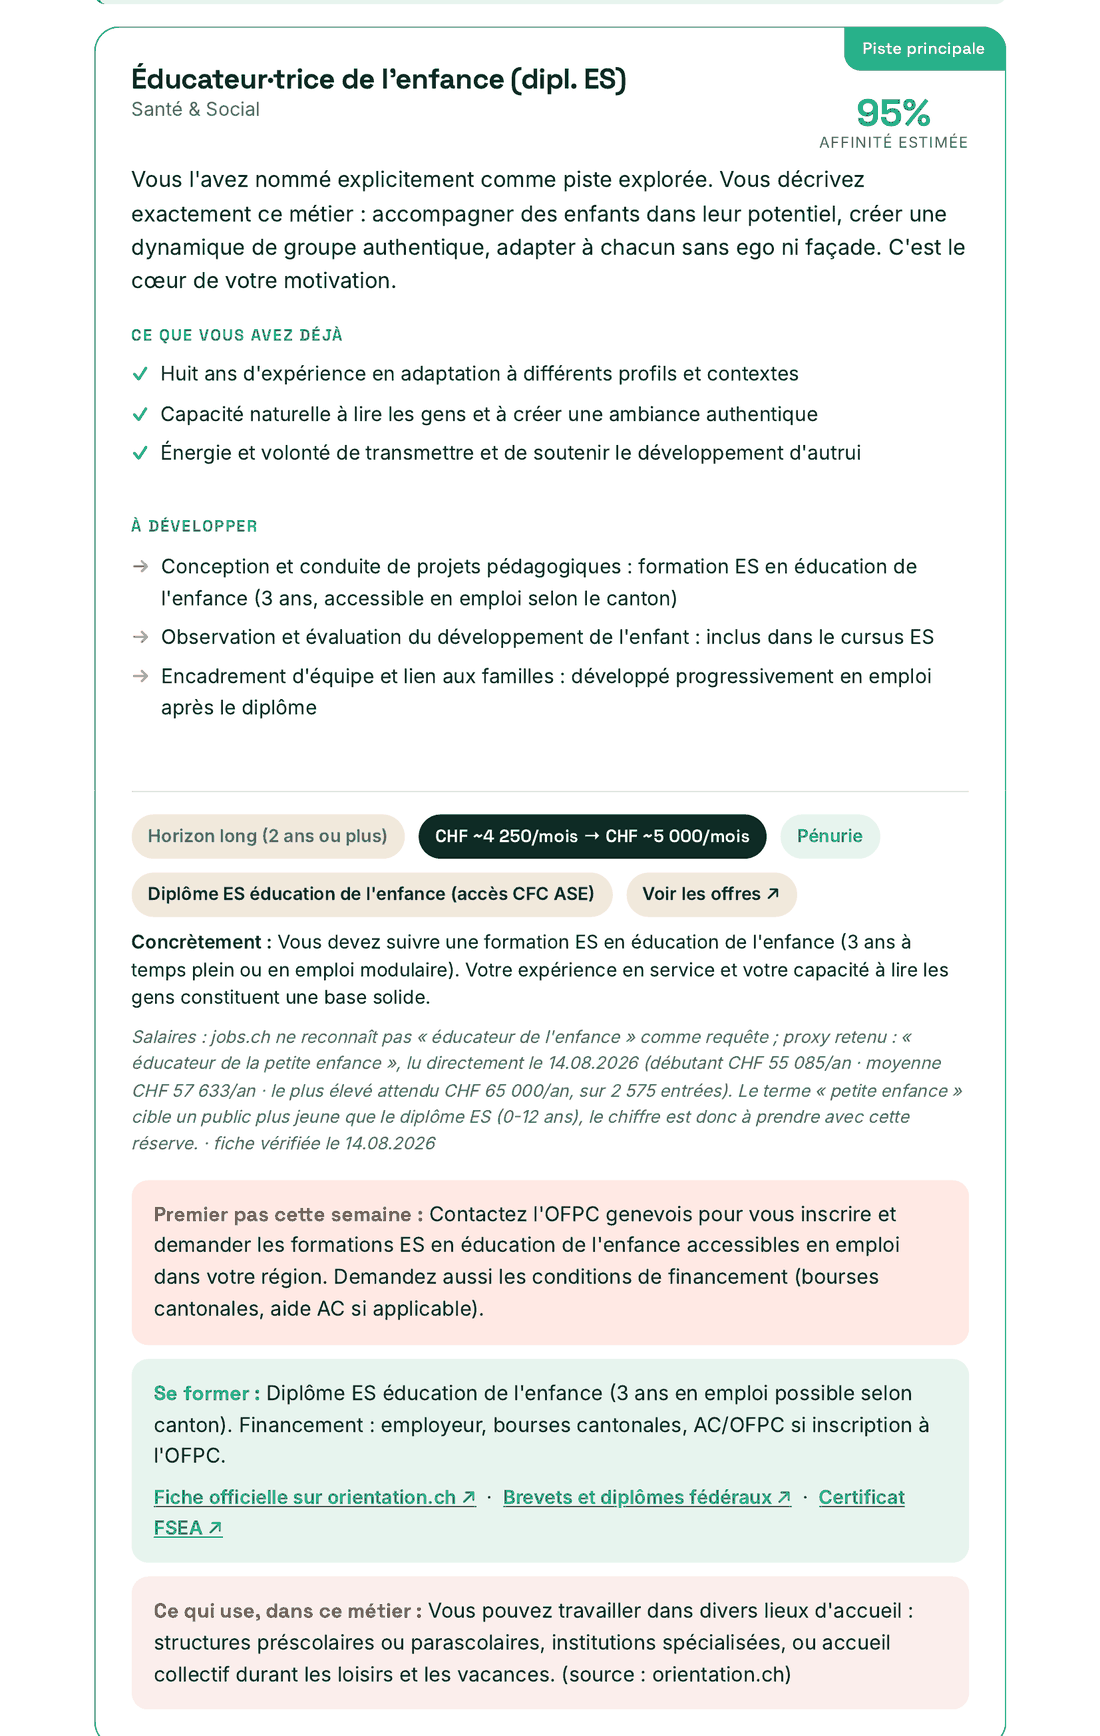
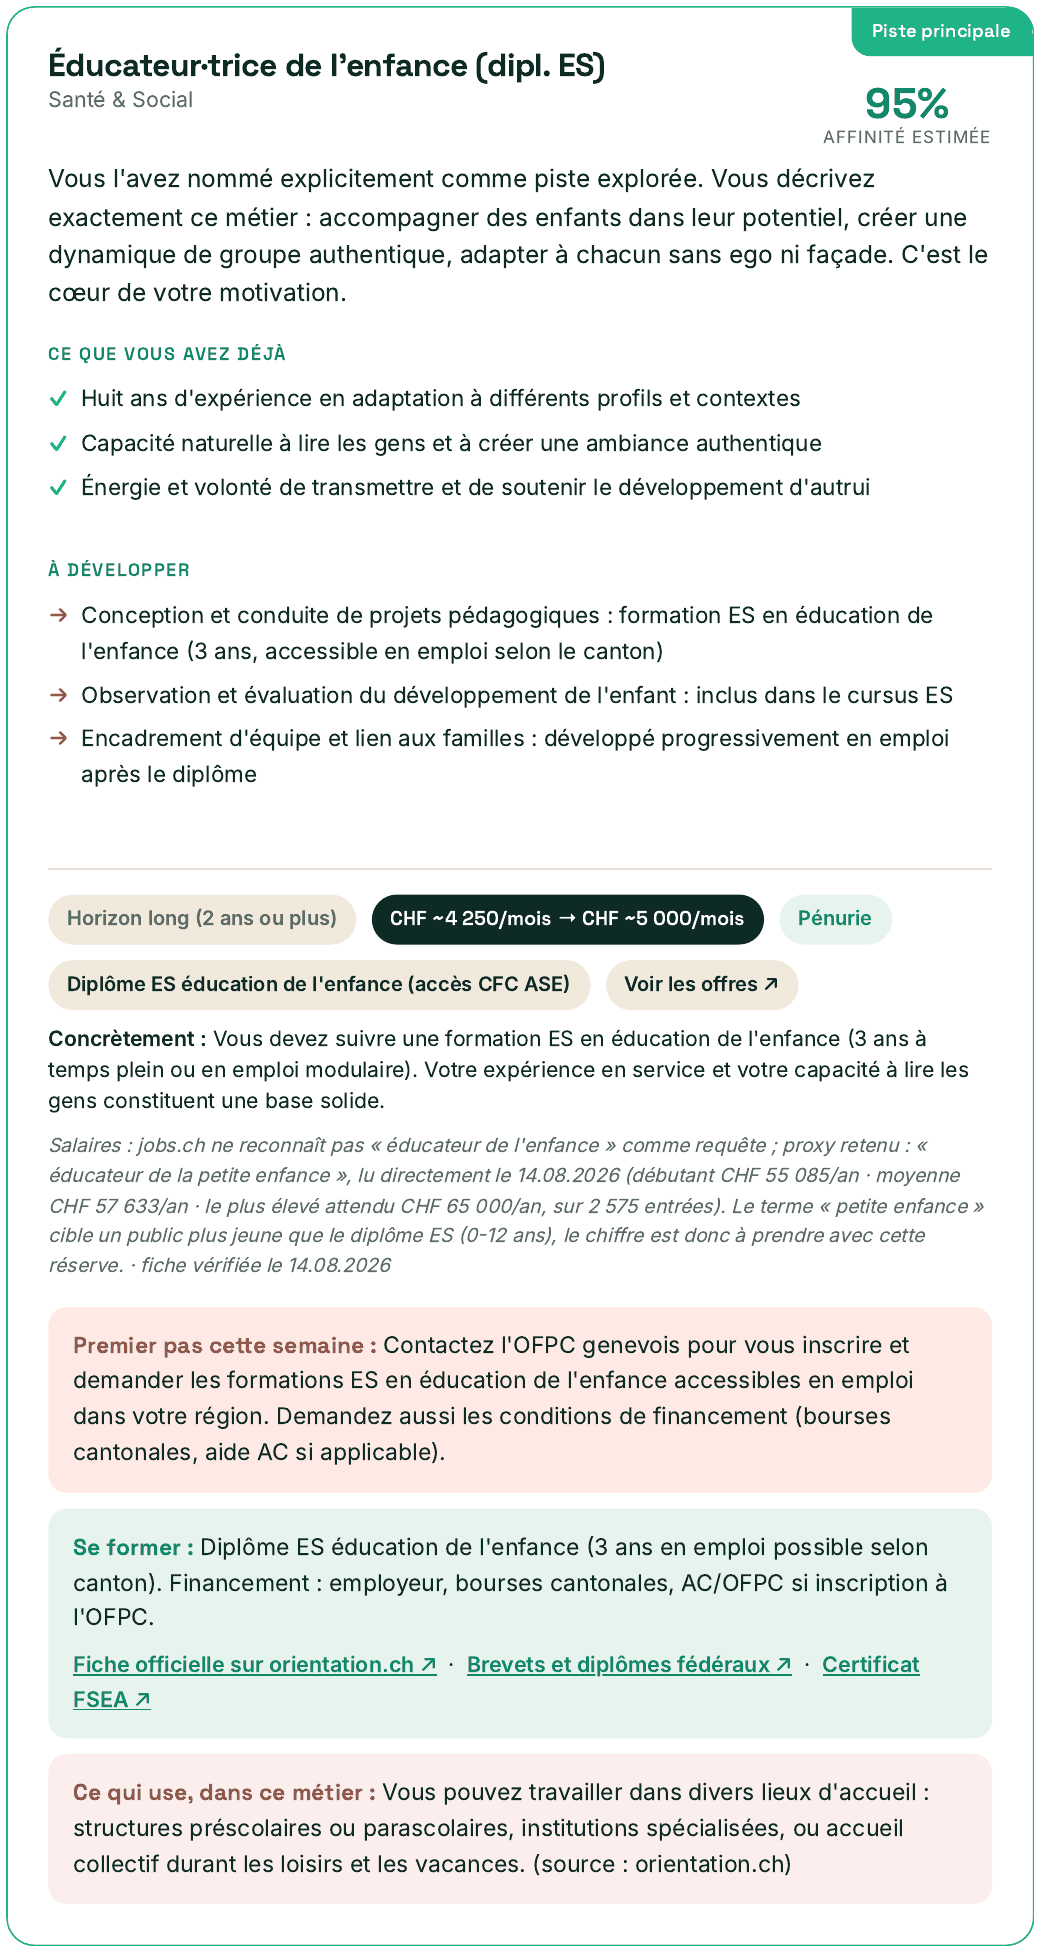
maj: site Cynth.IA

Changed region(s): [[0.0308, 0.0, 1.0, 0.9954], [0.0, 0.9954, 0.9846, 1.0]]

diff --git a/cynthia_v2.html b/cynthia_v2.html
@@ -2361,17 +2361,48 @@ textarea.chat-input{
          prénom, ni référence, ni canton, ni permis G/frontalier — ces
          mentions ne vivent que sur la couverture (page 1, jamais utilisée)
          et dans la section « Cette semaine » (page 12, jamais utilisée).
-         Fichiers : rapport_extrait_personnalite.png, rapport_extrait_metier.png
+         Fichiers (v1) : rapport_extrait_personnalite.png, rapport_extrait_metier.png
          (racine de refonte_deepseek, copiés par push_nouvelle_interface.command).
          Compressés par quantification de palette (48 couleurs, PIL) : le
          document est presque entièrement à plat, aucune perte visible sur
-         le texte, 700 Ko → 160 Ko et 316 Ko → 79 Ko. -->
+         le texte, 700 Ko → 160 Ko et 316 Ko → 79 Ko.
+
+         ── REMPLACÉ une 4e fois le même jour, retour de Faouzi après avoir vu
+         le rendu réel sur mobile ──
+         Deux retours distincts sur ce qu'il a vu de ses propres yeux :
+         (1) l'image Big Five (62%, 58%…) pouvait se lire comme une note basse
+         et « dénigrer » la personne dès le premier coup d'œil, alors que ce
+         sont de simples repères, pas un classement — retirée, remplacée par
+         l'encadré « VOTRE FREIN, ET CE QU'IL RÉVÈLE VRAIMENT » (page 5 du même
+         PDF réel) : aucun chiffre, un recadrage émotionnellement fort qui
+         retourne une insécurité perçue en ressource (« L'âge n'est pas un
+         frein, c'est une ressource. Le manque de confiance, c'est une
+         sensation, pas une réalité. »). Choix laissé à mon appréciation par
+         Faouzi (« tu trouves le moyen le plus impactant ») : ce passage a été
+         préféré à d'autres candidats réels du même rapport (pitch de
+         reconversion, puces CV) parce qu'il ne montre aucun score, qu'il est
+         visuellement distinct (liseré corail, rompt avec le vert dominant) et
+         qu'il démontre directement ce que fait Cynthia de mieux : confronter
+         honnêtement puis recadrer, pas juste lister des compétences.
+         (2) la fiche métier montrait un fragment parasite en haut de l'image
+         (« on voit que c'est coupé ») : le recadrage précédent partait
+         quelques pixels trop haut et laissait passer un éclat du coin
+         inférieur de l'encadré vert au-dessus (« Sur 5 pistes… »). Redécoupé
+         au pixel près (bordure détectée par script, pas à l'œil) : le
+         nouveau fichier commence exactement à la bordure émeraude du haut de
+         la carte « Piste principale » et se termine exactement à la bordure
+         du bas, après l'encadré « Ce qui use ». Même contenu, coupe propre.
+         Fichiers (v2, actuels) : rapport_extrait_frein.png (415×1071 crop
+         page 5), rapport_extrait_metier.png (redécoupé pages 7-8, écrase
+         l'ancien fichier du même nom). rapport_extrait_personnalite.png
+         reste sur disque mais n'est plus référencé nulle part — signalé à
+         Faouzi, pas supprimé sans son accord (fichier du dossier de travail). -->
     <div class="lp-rex lp-rv">
       <div class="lp-rex-tag">Un vrai rapport généré par Cynthia — prénom retiré pour préserver son anonymat</div>
       <div class="lp-rex-imgs">
         <div class="lp-rex-imgcard">
-          <img src="rapport_extrait_personnalite.png" alt="Extrait réel du rapport Cynth.IA : portrait et cinq dimensions de personnalité (ouverture, rigueur, extraversion, amabilité, stabilité émotionnelle), chacune avec sa définition en langage courant, et la précision que ce ne sont pas des scores validés." loading="lazy">
-          <p>Section « Qui vous êtes » — portrait et profil de personnalité, avec la réserve sur ce que ces chiffres veulent (et ne veulent pas) dire.</p>
+          <img src="rapport_extrait_frein.png" alt="Extrait réel du rapport Cynth.IA : l'encadré « Votre frein, et ce qu'il révèle vraiment », qui recadre une insécurité (l'âge, le manque de confiance) en ressource réelle, à partir des propres mots de la personne." loading="lazy">
+          <p>Un frein qu'elle nomme et retourne — pas une liste de qualités génériques.</p>
         </div>
         <div class="lp-rex-imgcard">
           <img src="rapport_extrait_metier.png" alt="Extrait réel du rapport Cynth.IA : fiche métier Éducateur·trice de l'enfance (dipl. ES), 95% d'affinité estimée, CHF ~4 250/mois en début de parcours jusqu'à CHF ~5 000/mois avec l'expérience, formation ES en éducation de l'enfance, financement employeur/bourses cantonales/ORP, premier pas concret de la semaine." loading="lazy">

diff --git a/index.html b/index.html
@@ -2361,17 +2361,48 @@ textarea.chat-input{
          prénom, ni référence, ni canton, ni permis G/frontalier — ces
          mentions ne vivent que sur la couverture (page 1, jamais utilisée)
          et dans la section « Cette semaine » (page 12, jamais utilisée).
-         Fichiers : rapport_extrait_personnalite.png, rapport_extrait_metier.png
+         Fichiers (v1) : rapport_extrait_personnalite.png, rapport_extrait_metier.png
          (racine de refonte_deepseek, copiés par push_nouvelle_interface.command).
          Compressés par quantification de palette (48 couleurs, PIL) : le
          document est presque entièrement à plat, aucune perte visible sur
-         le texte, 700 Ko → 160 Ko et 316 Ko → 79 Ko. -->
+         le texte, 700 Ko → 160 Ko et 316 Ko → 79 Ko.
+
+         ── REMPLACÉ une 4e fois le même jour, retour de Faouzi après avoir vu
+         le rendu réel sur mobile ──
+         Deux retours distincts sur ce qu'il a vu de ses propres yeux :
+         (1) l'image Big Five (62%, 58%…) pouvait se lire comme une note basse
+         et « dénigrer » la personne dès le premier coup d'œil, alors que ce
+         sont de simples repères, pas un classement — retirée, remplacée par
+         l'encadré « VOTRE FREIN, ET CE QU'IL RÉVÈLE VRAIMENT » (page 5 du même
+         PDF réel) : aucun chiffre, un recadrage émotionnellement fort qui
+         retourne une insécurité perçue en ressource (« L'âge n'est pas un
+         frein, c'est une ressource. Le manque de confiance, c'est une
+         sensation, pas une réalité. »). Choix laissé à mon appréciation par
+         Faouzi (« tu trouves le moyen le plus impactant ») : ce passage a été
+         préféré à d'autres candidats réels du même rapport (pitch de
+         reconversion, puces CV) parce qu'il ne montre aucun score, qu'il est
+         visuellement distinct (liseré corail, rompt avec le vert dominant) et
+         qu'il démontre directement ce que fait Cynthia de mieux : confronter
+         honnêtement puis recadrer, pas juste lister des compétences.
+         (2) la fiche métier montrait un fragment parasite en haut de l'image
+         (« on voit que c'est coupé ») : le recadrage précédent partait
+         quelques pixels trop haut et laissait passer un éclat du coin
+         inférieur de l'encadré vert au-dessus (« Sur 5 pistes… »). Redécoupé
+         au pixel près (bordure détectée par script, pas à l'œil) : le
+         nouveau fichier commence exactement à la bordure émeraude du haut de
+         la carte « Piste principale » et se termine exactement à la bordure
+         du bas, après l'encadré « Ce qui use ». Même contenu, coupe propre.
+         Fichiers (v2, actuels) : rapport_extrait_frein.png (415×1071 crop
+         page 5), rapport_extrait_metier.png (redécoupé pages 7-8, écrase
+         l'ancien fichier du même nom). rapport_extrait_personnalite.png
+         reste sur disque mais n'est plus référencé nulle part — signalé à
+         Faouzi, pas supprimé sans son accord (fichier du dossier de travail). -->
     <div class="lp-rex lp-rv">
       <div class="lp-rex-tag">Un vrai rapport généré par Cynthia — prénom retiré pour préserver son anonymat</div>
       <div class="lp-rex-imgs">
         <div class="lp-rex-imgcard">
-          <img src="rapport_extrait_personnalite.png" alt="Extrait réel du rapport Cynth.IA : portrait et cinq dimensions de personnalité (ouverture, rigueur, extraversion, amabilité, stabilité émotionnelle), chacune avec sa définition en langage courant, et la précision que ce ne sont pas des scores validés." loading="lazy">
-          <p>Section « Qui vous êtes » — portrait et profil de personnalité, avec la réserve sur ce que ces chiffres veulent (et ne veulent pas) dire.</p>
+          <img src="rapport_extrait_frein.png" alt="Extrait réel du rapport Cynth.IA : l'encadré « Votre frein, et ce qu'il révèle vraiment », qui recadre une insécurité (l'âge, le manque de confiance) en ressource réelle, à partir des propres mots de la personne." loading="lazy">
+          <p>Un frein qu'elle nomme et retourne — pas une liste de qualités génériques.</p>
         </div>
         <div class="lp-rex-imgcard">
           <img src="rapport_extrait_metier.png" alt="Extrait réel du rapport Cynth.IA : fiche métier Éducateur·trice de l'enfance (dipl. ES), 95% d'affinité estimée, CHF ~4 250/mois en début de parcours jusqu'à CHF ~5 000/mois avec l'expérience, formation ES en éducation de l'enfance, financement employeur/bourses cantonales/ORP, premier pas concret de la semaine." loading="lazy">
